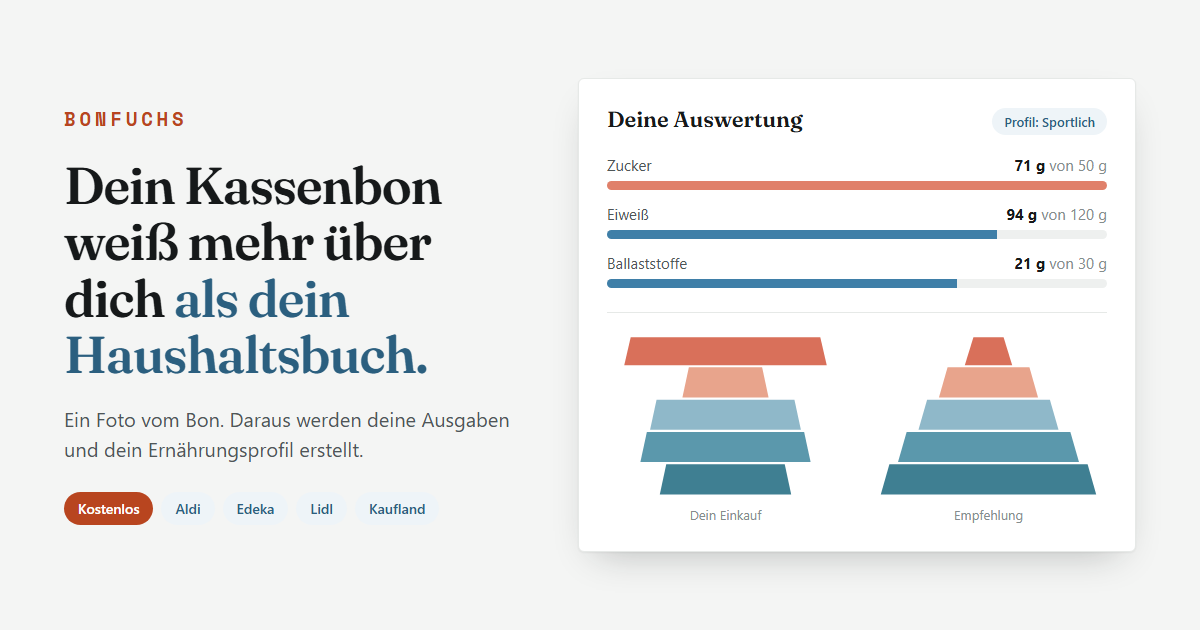
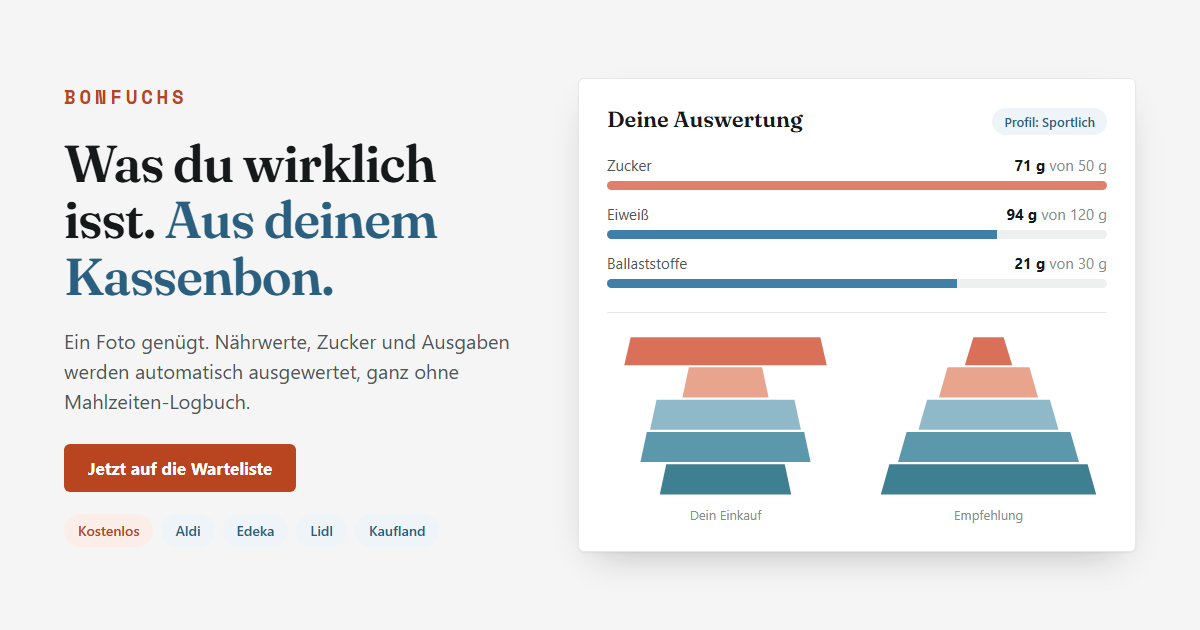
Refine social preview: CTA, no duplicate headline

Changed region(s): [[0.0308, 0.1206, 0.4317, 0.6032], [0.0308, 0.6333, 0.4317, 0.8746], [0.3083, 0.7841, 0.37, 0.8746]]

diff --git a/index.html b/index.html
@@ -18,16 +18,16 @@
 <meta property="og:locale" content="de_DE">
 <meta property="og:site_name" content="Bonfuchs">
 <meta property="og:title" content="Dein Kassenbon weiß mehr über dich als dein Haushaltsbuch">
-<meta property="og:description" content="Kassenbon scannen, Ausgaben und Nährwerte automatisch auswerten. Kostenlos, für Aldi, Edeka, Lidl und Kaufland. Auf die Warteliste.">
+<meta property="og:description" content="Ein Foto vom Bon. Ausgaben und Nährwerte automatisch ausgewertet. Kostenlos.">
 <meta property="og:url" content="https://nikkn.github.io/Bonfuchs/">
 <meta property="og:image" content="https://nikkn.github.io/Bonfuchs/og.png">
 <meta property="og:image:width" content="1200">
 <meta property="og:image:height" content="630">
-<meta property="og:image:alt" content="Bonfuchs: Kassenbon links, automatische Auswertung mit Nährwerten und Ernährungspyramide rechts.">
+<meta property="og:image:alt" content="Bonfuchs: automatische Auswertung eines Kassenbons mit Nährwerten und Ernährungspyramide.">
 
 <meta name="twitter:card" content="summary_large_image">
 <meta name="twitter:title" content="Dein Kassenbon weiß mehr über dich als dein Haushaltsbuch">
-<meta name="twitter:description" content="Kassenbon scannen, Ausgaben und Nährwerte automatisch auswerten. Kostenlos, für Aldi, Edeka, Lidl und Kaufland. Auf die Warteliste.">
+<meta name="twitter:description" content="Ein Foto vom Bon. Ausgaben und Nährwerte automatisch ausgewertet. Kostenlos.">
 <meta name="twitter:image" content="https://nikkn.github.io/Bonfuchs/og.png">
 
 <meta name="theme-color" content="#f4f5f4" media="(prefers-color-scheme: light)">

diff --git a/og-source.html b/og-source.html
@@ -72,13 +72,22 @@
     font-size: 20px; line-height: 1.5; color: var(--ink-soft);
     margin: 0 0 28px;
   }
+  /* The call to action the preview card otherwise lacks: the title under
+     the image states WHAT this is, nothing states what to do next. */
+  .cta {
+    display: inline-block;
+    font-size: 17px; font-weight: 700;
+    color: #fff; background: var(--fox);
+    border-radius: 6px; padding: 13px 24px;
+    margin-bottom: 22px;
+  }
   .chips { display: flex; gap: 8px; flex-wrap: wrap; }
   .chip {
     font-size: 14px; font-weight: 600;
     color: var(--acc-ink); background: var(--acc-bg);
     border-radius: 99px; padding: 7px 14px;
   }
-  .chip.free { color: #fff; background: var(--fox); }
+  .chip.free { color: var(--fox); background: #fbeee9; }
 
   /* ---- one analysis card, the result rather than the input ---- */
   .card {
@@ -136,11 +145,12 @@
 <div class="og">
   <div>
     <div class="brand">Bonfuchs</div>
-    <h1>Dein Kassenbon weiß mehr über dich <em>als dein Haushaltsbuch.</em></h1>
+    <h1>Was du wirklich isst. <em>Aus deinem Kassenbon.</em></h1>
     <p class="sub">
-      Ein Foto vom Bon. Daraus werden deine Ausgaben und dein
-      Ernährungsprofil erstellt.
+      Ein Foto genügt. Nährwerte, Zucker und Ausgaben werden automatisch
+      ausgewertet, ganz ohne Mahlzeiten-Logbuch.
     </p>
+    <div class="cta">Jetzt auf die Warteliste</div>
     <div class="chips">
       <span class="chip free">Kostenlos</span>
       <span class="chip">Aldi</span>
